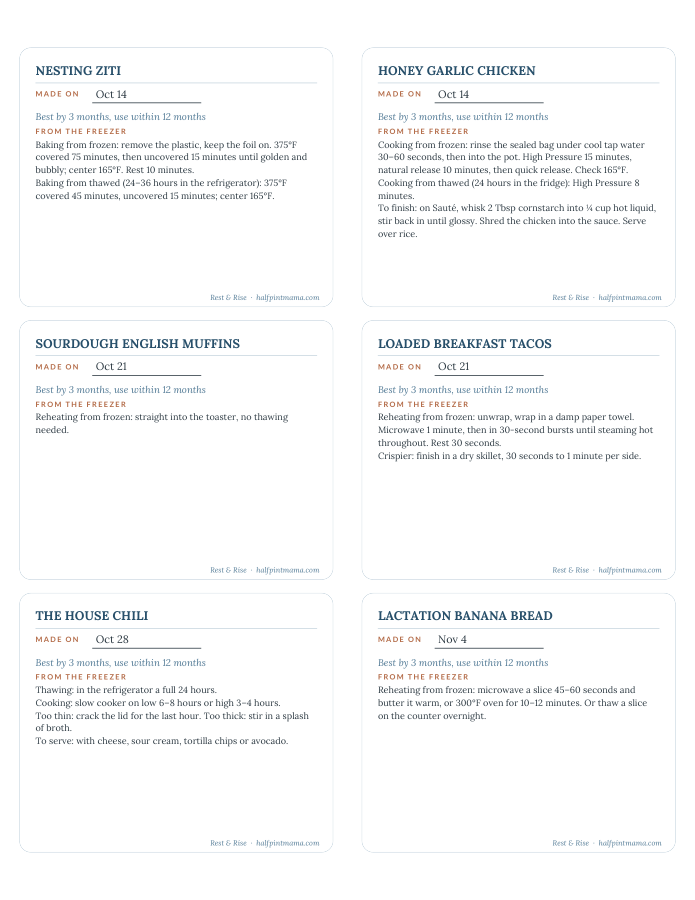
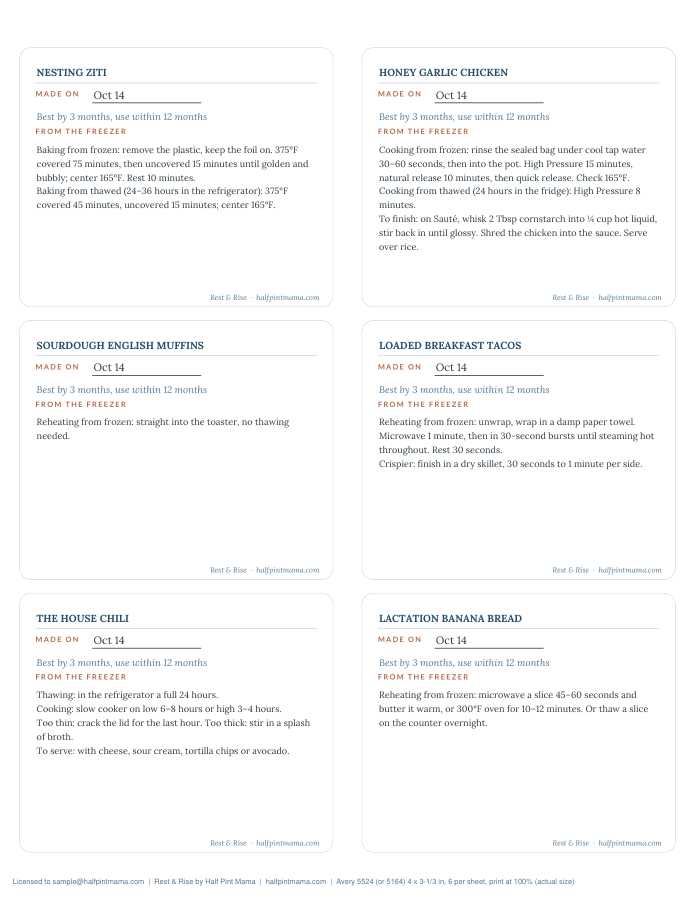
Label previews are rendered from the buyer's own PDF
The site images and the file a buyer receives now come from one code
path: the preview script pre-selects six recipes through the real form
and rasterises page 2. A pixel diff between a real filled label and the
thumbnail is now zero. The separate static drawing is gone.

diff --git a/src/lib/shop/labels-pdf.ts b/src/lib/shop/labels-pdf.ts
@@ -233,18 +233,6 @@ function drawLabelArt(page: PDFPage, slot: Slot, fonts: Fonts, handwrite: boolea
   page.drawText(foot, { x: g.card.x + g.card.w - 12 - fonts.italic.widthOfTextAtSize(foot, 6.5), y: g.card.y + 6, size: 6.5, font: fonts.italic, color: STEEL_TEXT });
 }
 
-// Renders a recipe onto a hand-write label as static text (used only for the
-// preview image, never in a buyer's file).
-export function previewLabel(page: PDFPage, slot: Slot, fonts: Fonts, name: string, made: string, meta: string, directions: string) {
-  const g = labelGeometry(slot);
-  const upper = name.toUpperCase();
-  const size = Math.min(11, (11 * g.w) / Math.max(g.w, fonts.bold.widthOfTextAtSize(upper, 11)));
-  page.drawText(upper, { x: g.x, y: g.title.y + 5, size, font: fonts.bold, color: NAVY });
-  page.drawText(made, { x: g.made.x + 3, y: g.made.y + 3, size: 9.5, font: fonts.body, color: INK });
-  page.drawText(meta, { x: g.x, y: g.meta.y + 3, size: 8.5, font: fonts.italic, color: STEEL_TEXT });
-  paragraph(page, directions, g.x, g.dir.y + g.dir.height - 9, g.w, 8, fonts.body, INK, 11.2);
-}
-
 function stampFooter(page: PDFPage, fonts: Fonts, email: string, note?: string) {
   const s = LABEL_SHEET;
   // The hand-write sheet says what it is instead of repeating the sheet spec,
@@ -449,6 +437,3 @@ export async function buildLabelsPdf({ email, createdAt, prefill }: LabelsPdfOpt
   // here would repaint them all in one font.
   return doc.save({ updateFieldAppearances: false });
 }
-
-// For the preview renderer: same fonts and geometry as the real file.
-export const _internals = { loadFonts, slots, drawLabelArt, labelGeometry, CREAM, WHITE };
